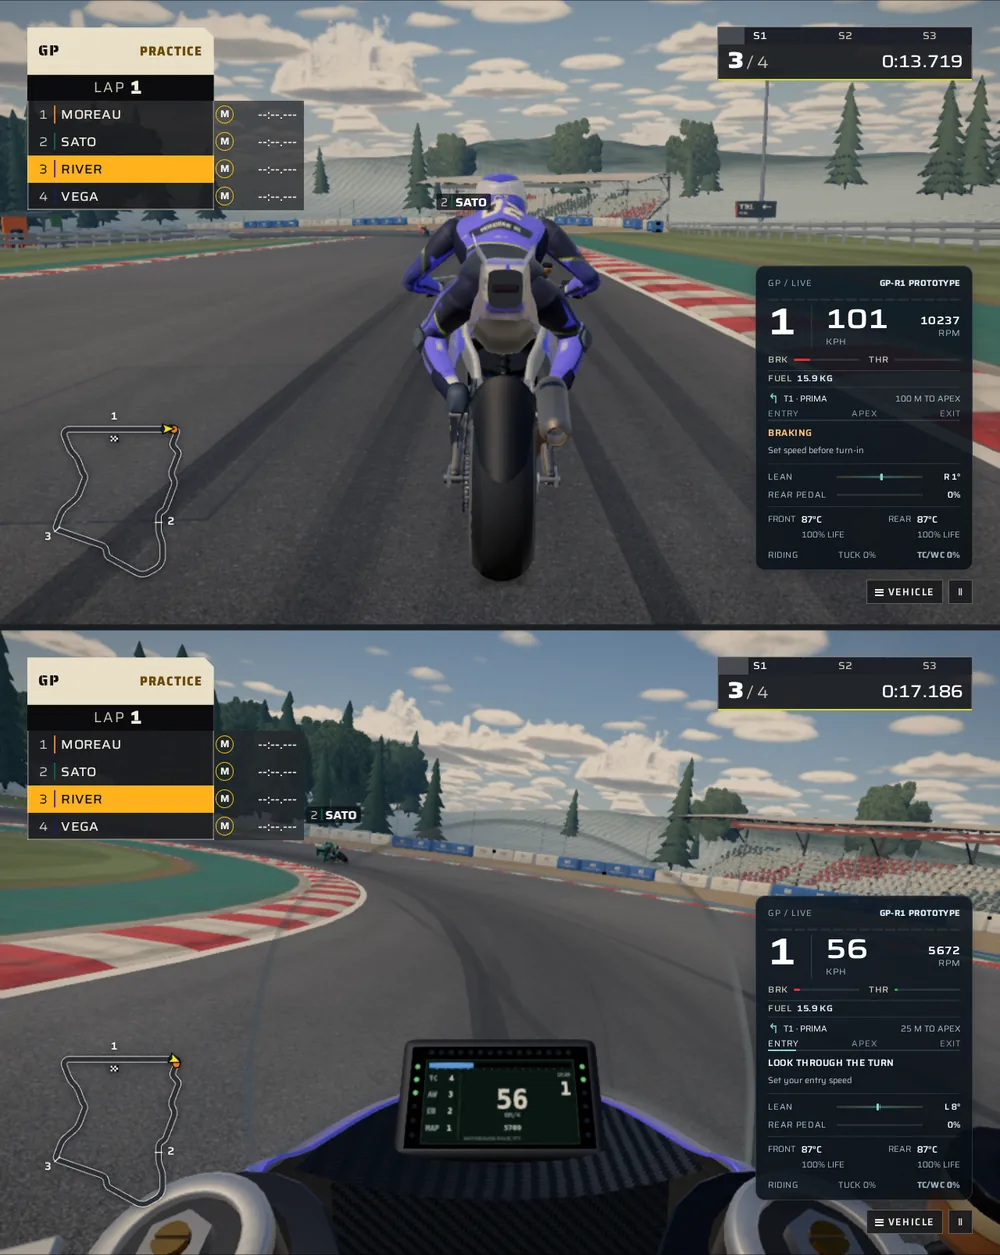
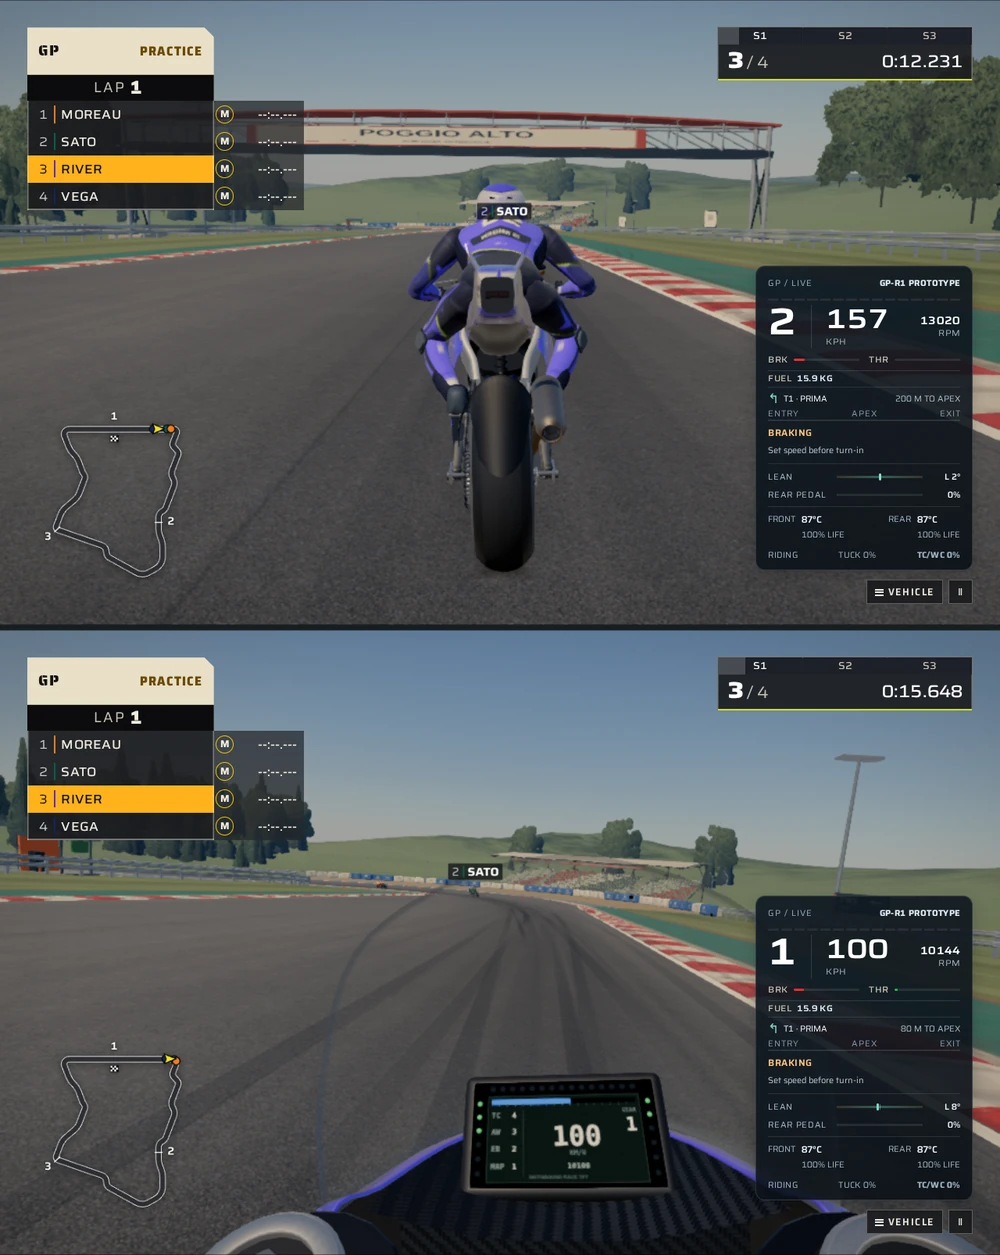
Share each motorcycle detail level during grid assembly and capture the latest practice views

diff --git a/e2e/motogp-riding-flow.spec.ts b/e2e/motogp-riding-flow.spec.ts
@@ -25,6 +25,8 @@ test('GP practice rides through named corner guidance, cockpit, pause and record
   const errors: string[] = [];
   const requestErrors: string[] = [];
   const pitAssets = new Set<string>();
+  let pageCrashed = false;
+  page.on('crash', () => { pageCrashed = true; });
   page.on('pageerror', (error) => errors.push(error.message));
   page.on('console', (message) => {
     if (message.type() === 'error') errors.push(message.text());
@@ -285,7 +287,23 @@ test('GP practice rides through named corner guidance, cockpit, pause and record
   await expect(page.locator('#hud')).toHaveAttribute('data-camera', 'cockpit');
   const cockpitLayout = await readableGuide();
   await capture('03-gp-moving-cockpit-guide');
-  await expect.poll(async () => (await diag()).replaySamples).toBeGreaterThan(30);
+  await expect.poll(async () => {
+    if (pageCrashed) throw new Error('The GP practice page crashed before the replay check');
+    const recording = await page.evaluate((tick) => {
+      const state = window.apexDiagnostics();
+      return {
+        ready: state.replaySamples > 30,
+        samples: state.replaySamples,
+        error: state.replayError,
+        warnings: state.recordingWarnings,
+        state: state.state,
+        tick: state.frame?.[tick],
+      };
+    }, H.TICK);
+    if (recording.error || recording.warnings.length)
+      throw new Error(`GP practice recording failed ${JSON.stringify(recording)}`);
+    return recording;
+  }).toMatchObject({ ready: true });
 
   await page.keyboard.press('Escape');
   await expect(page.getByRole('button', { name: 'RESUME SESSION', exact: true })).toBeVisible();

diff --git a/src/rendering/bike.ts b/src/rendering/bike.ts
@@ -2376,14 +2376,14 @@ export class BikeShells {
     const dirtMud = isDirtBike(definition) ? mudUniforms() : undefined;
     const levels = dirtMud
       ? []
-      : BIKE_DETAILS.map(
-          (detail) => new BikeModel(definition, scheme, detail, materials, detail === 'high'),
-        );
+      : BIKE_DETAILS.map((detail) => {
+          const model = new BikeModel(definition, scheme, detail, materials, detail === 'high');
+          // Release duplicate vertex arrays before constructing the next level of this entrant.
+          if (field) this.fieldGeometry.share(definition.id + '/' + detail, model.root);
+          model.root.visible = false;
+          return model;
+        });
     const gp = definition.classId === 'gp-bike';
-    for (const level of levels) {
-      if (field) this.fieldGeometry.share(definition.id + '/' + level.detail, level.root);
-      level.root.visible = false;
-    }
     // One spring-damped rider body per GP entrant, shared by its LODs.
     const riderBody = gp ? new GpRiderBody() : undefined;
     // Capture the opaque rest pose before a presentation hook can replace its

diff --git a/docs/production/motogp-race-surfaces/README.md b/docs/production/motogp-race-surfaces/README.md
@@ -29,6 +29,8 @@ The studio views use the production bike and rider in controlled lighting. The t
 
 ![Poggio Alto in practice, chase view followed by cockpit view](practice.webp)
 
+The dry chase frame shows 157 km/h on the approach to Prima. The cockpit frame shows 100 km/h at corner entry. The same session loaded the pit crew’s axle gun and skipped the 5,793,632-byte car-jack model. Motorcycle service uses a front and rear paddock stand, with one gun operator per axle. Selecting a car field on the same circuit prepares its full equipment.
+
 Four GP-R1 riders run on wet tyres in the second session. The chase camera records a rider ahead in spray at 51 km/h. The cockpit view shows the real instrument display and race HUD at 126 km/h. Both tyres reported water contact and all four bikes were upright in the chase sample.
 
 ![Four-rider wet practice at Poggio Alto, chase view and onboard at speed](wet-practice.webp)
